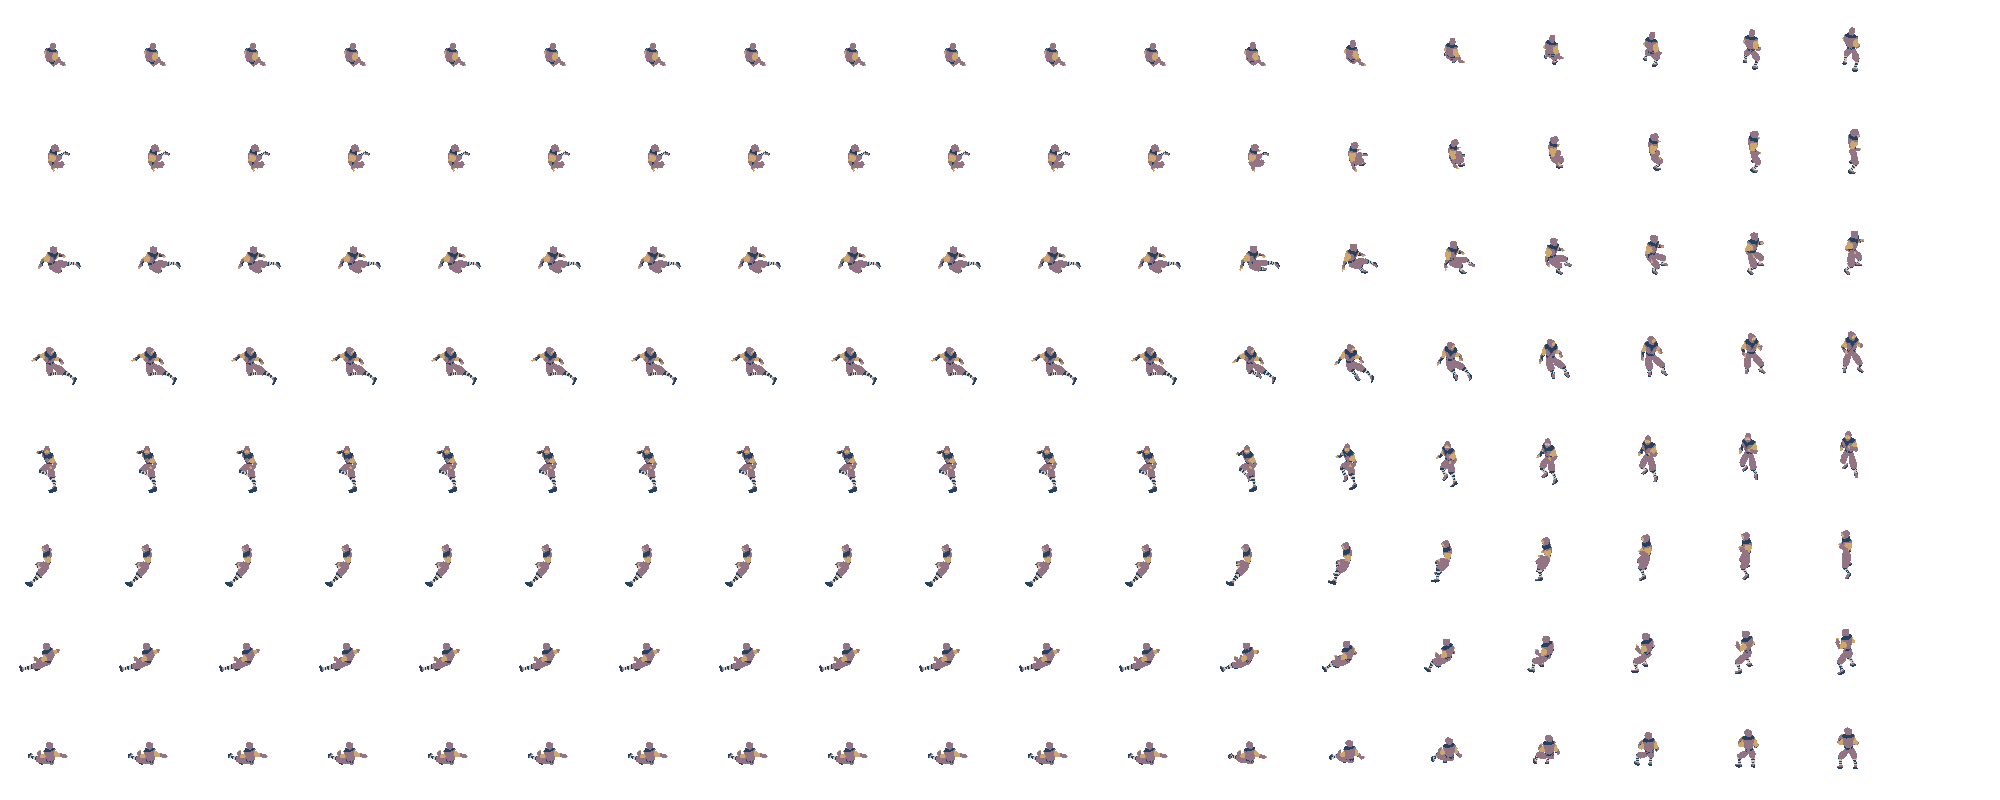
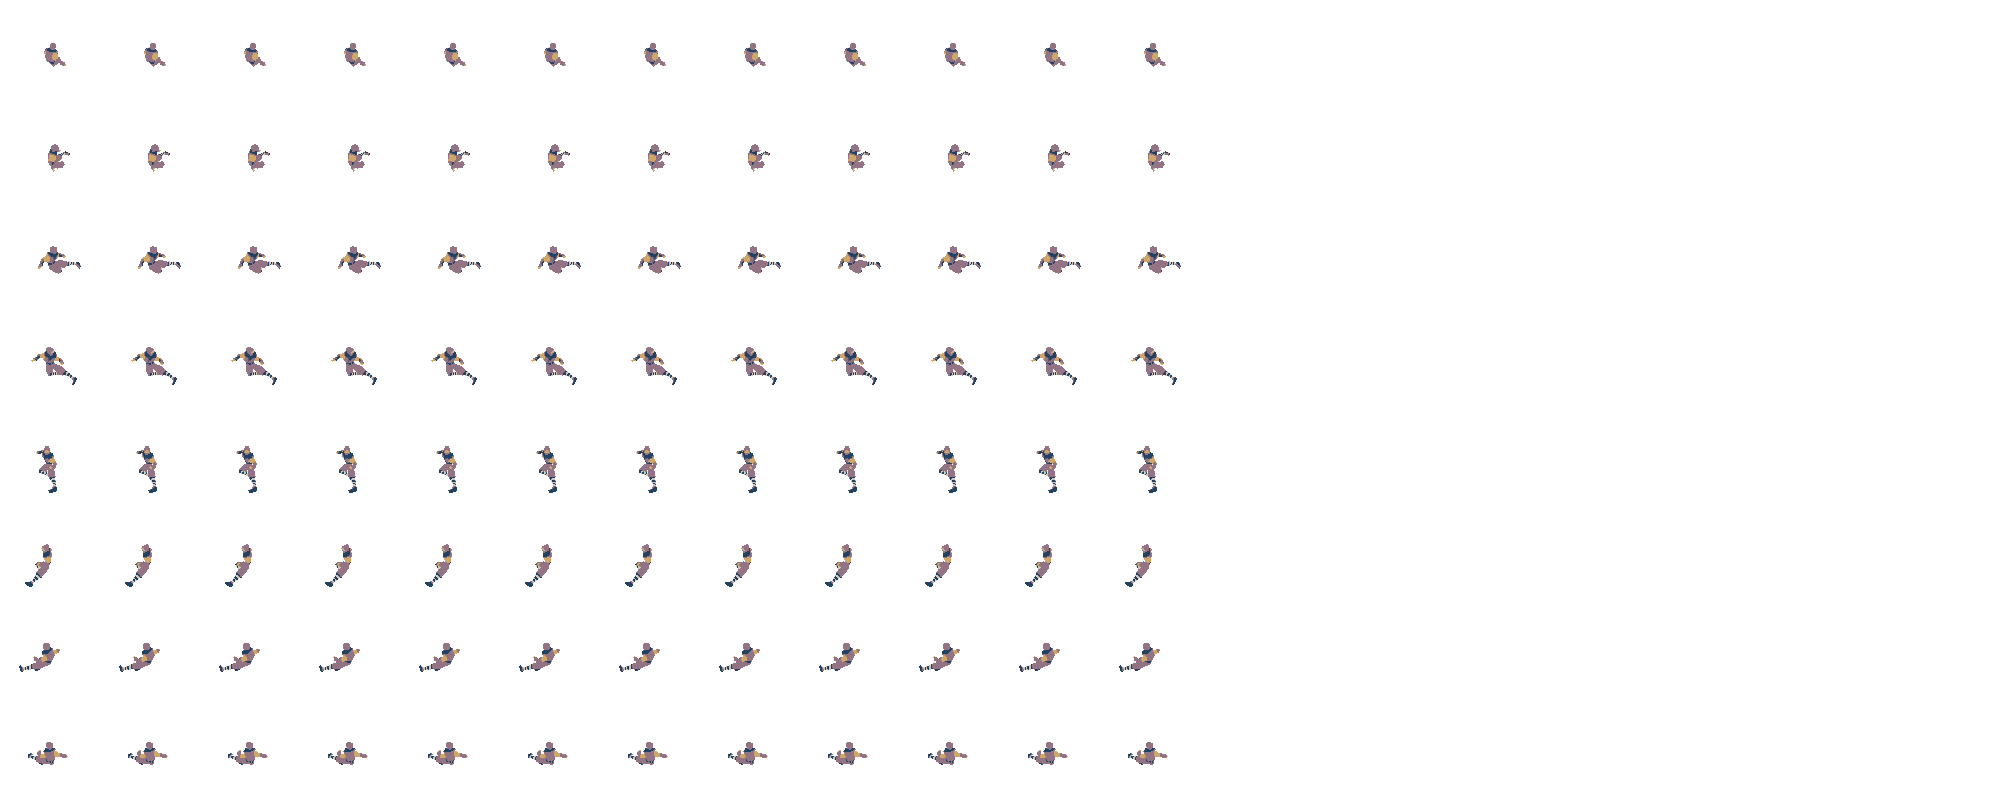
feat!: Replace `DudeState::Sliding` with `Attack::Slide`
The slide is now an attack, I decided this is a better way to handle
any state that has a hitbox (spawns an attack arc).

This may not be quite true for things that don't spawn an attack arc,
but then you can just spawn an invisible attack arc with just a hitbox,
so even then putting it into `Attack` is not a bad move.

It also works way better with `StaggerState` and other parts.

diff --git a/src/player/state/mod.rs b/src/player/state/mod.rs
@@ -7,7 +7,7 @@ pub use state_machine::PlayerStateMachine;
 use bevy::prelude::*;
 use bevy_trickfilm::prelude::*;
 
-use crate::dude::{AttackForm, DudeState, JumpingState, ParryState, Stagger};
+use crate::dude::{Attack, AttackForm, DudeState, JumpingState, ParryState, Stagger};
 use crate::player::{input::PlayerInput, Player};
 
 const SLIDING_TO_JUMP_TRANSITION_MAX_TIME_PERCENTAGE: f32 = 0.7;
@@ -93,6 +93,9 @@ fn transition_slide_state(
         if !player_input.slide {
             continue;
         }
+        if player.state_machine.attack_eq(Attack::Slide) {
+            continue;
+        }
         let x = animator.elapsed() / animator.duration().unwrap_or(1000.0);
         if !(player.state_machine.can_attack()
             || (player.state_machine.state() == DudeState::Jumping(JumpingState::Start)
@@ -101,7 +104,7 @@ fn transition_slide_state(
             continue;
         }
 
-        player.state_machine.set_state(DudeState::Sliding);
+        player.state_machine.set_sliding_attack();
     }
 }
 
@@ -118,7 +121,7 @@ fn transition_jump_state(
         }
         let x = animator.elapsed() / animator.duration().unwrap_or(1000.0);
         if !(player.state_machine.can_run()
-            || (player.state_machine.state() == DudeState::Sliding
+            || (player.state_machine.attack_eq(Attack::Slide)
                 && x <= SLIDING_TO_JUMP_TRANSITION_MAX_TIME_PERCENTAGE))
         {
             continue;
@@ -210,11 +213,6 @@ fn transition_idle_state(
                     ParryState::Recover | ParryState::Fail => {
                         player.state_machine.set_state(DudeState::Idling)
                     }
-                }
-            }
-            DudeState::Sliding => {
-                if animator.just_finished() {
-                    player.state_machine.set_state(DudeState::Idling);
                 }
             }
             DudeState::Jumping(jumping_state) => {

diff --git a/src/dude/animations.rs b/src/dude/animations.rs
@@ -31,6 +31,7 @@ pub enum DudeAnimations {
     ParrySuccess,
     ParrySuccessRecover,
     Slide,
+    SlideRecover,
     Jumping,
     JumpingRecoverIdle,
     JumpingRecoverMoving,
@@ -118,6 +119,7 @@ pub fn dude_state_animation(
                 Attack::Heavy1 => DudeAnimations::Heavy1,
                 Attack::Heavy2 => DudeAnimations::Heavy2,
                 Attack::Heavy3 => DudeAnimations::Heavy3,
+                Attack::Slide => DudeAnimations::Slide,
             };
             get_animation_data(assets, dude_animation, direction, false)
         }
@@ -129,6 +131,7 @@ pub fn dude_state_animation(
                 Attack::Heavy1 => DudeAnimations::Heavy1Recover,
                 Attack::Heavy2 => DudeAnimations::Heavy2Recover,
                 Attack::Heavy3 => DudeAnimations::Heavy3Recover,
+                Attack::Slide => DudeAnimations::SlideRecover,
             };
             get_animation_data(assets, dude_animation, direction, false)
         }
@@ -148,7 +151,6 @@ pub fn dude_state_animation(
             };
             get_animation_data(assets, dude_animation, direction, false)
         }
-        DudeState::Sliding => get_animation_data(assets, DudeAnimations::Slide, direction, false),
         DudeState::Jumping(jumping_state) => match jumping_state {
             JumpingState::Start => {
                 get_animation_data(assets, DudeAnimations::Jumping, direction, false)

diff --git a/src/dude/attack.rs b/src/dude/attack.rs
@@ -13,6 +13,7 @@ pub enum Attack {
     Heavy1,
     Heavy2,
     Heavy3,
+    Slide,
 }
 
 #[derive(Debug, Default, PartialEq, Clone, Copy)]
@@ -37,9 +38,12 @@ impl Attack {
             Attack::Heavy1 => (Vec2::default(), Collider::cuboid(8.0, 14.0), 20.0),
             Attack::Heavy2 => (Vec2::default(), Collider::cuboid(8.0, 14.0), 20.0),
             Attack::Heavy3 => (Vec2::default(), Collider::cuboid(12.0, 20.0), 20.0),
+            Attack::Slide => (Vec2::default(), Collider::cuboid(15.0, 8.0), 20.0),
         }
     }
 
+    /// The bool flag is whether or not to rotate the arc attack effect locally, meaning on its z
+    /// axis. It will always be rotated around the player regarding the orientation of the player.
     pub fn effect_animation_data(
         &self,
         assets: &Res<GameAssets>,
@@ -84,6 +88,13 @@ impl Attack {
                 assets.attack_half_circle.clone(),
                 assets.attack_half_circle_layout.clone(),
                 assets.attack_half_circle_animation.clone(),
+                true,
+            ),
+            // TODO: Slide effect animations
+            Attack::Slide => (
+                assets.attack_arc.clone(),
+                assets.attack_arc_layout.clone(),
+                assets.attack_arc_animation.clone(),
                 true,
             ),
         }

diff --git a/src/assets/mod.rs b/src/assets/mod.rs
@@ -68,6 +68,7 @@ pub struct GameAssets {
             "dude/dude_parry_success.png",
             "dude/dude_parry_success_recover.png",
             "dude/dude_slide.png",
+            "dude/dude_slide_recover.png",
             "dude/dude_jump.png",
             "dude/dude_jump_recover_idle.png",
             "dude/dude_jump_recover_moving.png",
@@ -250,6 +251,14 @@ pub struct GameAssets {
             "dude/dude.trickfilm.ron#slide-o5",
             "dude/dude.trickfilm.ron#slide-o6",
             "dude/dude.trickfilm.ron#slide-o7",
+            "dude/dude.trickfilm.ron#slide_recover-o0",
+            "dude/dude.trickfilm.ron#slide_recover-o1",
+            "dude/dude.trickfilm.ron#slide_recover-o2",
+            "dude/dude.trickfilm.ron#slide_recover-o3",
+            "dude/dude.trickfilm.ron#slide_recover-o4",
+            "dude/dude.trickfilm.ron#slide_recover-o5",
+            "dude/dude.trickfilm.ron#slide_recover-o6",
+            "dude/dude.trickfilm.ron#slide_recover-o7",
             "dude/dude.trickfilm.ron#jump-o0",
             "dude/dude.trickfilm.ron#jump-o1",
             "dude/dude.trickfilm.ron#jump-o2",

diff --git a/src/player/state/state_machine.rs b/src/player/state/state_machine.rs
@@ -121,6 +121,17 @@ Attempted new state: {:?}",
         self.attack_handler.set_chainable(true);
     }
 
+    pub fn set_sliding_attack(&mut self) {
+        if self.just_changed {
+            error!("Trying to set sliding state even though state was already changed this frame. Should never happen, you probably forgot a flag check");
+            return;
+        }
+        self.set_state(DudeState::Attacking);
+        self.attack_handler.set_attack(Attack::Slide);
+        self.attack_handler.set_chainable(false);
+        self.attack_handler.set_chained_attack(AttackForm::None);
+    }
+
     pub fn attack_direction(&self) -> Vec2 {
         self.attack_handler.attack_direction()
     }
@@ -189,6 +200,7 @@ Attempted new state: {:?}",
                 AttackForm::Heavy => Some(Attack::Heavy3),
             },
             Attack::Heavy3 => None,
+            Attack::Slide => None,
         }
     }
 

diff --git a/src/enemy/state/mod.rs b/src/enemy/state/mod.rs
@@ -91,10 +91,7 @@ fn transition_idle_state(mut q_enemies: Query<(&AnimationPlayer2D, &mut Enemy, &
         }
 
         match enemy.state_machine.state() {
-            DudeState::Idling
-            | DudeState::Parrying
-            | DudeState::Sliding
-            | DudeState::Jumping(_) => {}
+            DudeState::Idling | DudeState::Parrying | DudeState::Jumping(_) => {}
             DudeState::Running => {
                 if enemy.target.is_none() {
                     enemy.state_machine.set_state(DudeState::Idling);

diff --git a/src/player/movement.rs b/src/player/movement.rs
@@ -39,7 +39,7 @@ fn move_player_attacking(
             velocity.linvel = player.current_direction * 50.0;
         } else if player.state_machine.attack_eq(Attack::Light2) {
             velocity.linvel = player.current_direction * 250.0;
-        } else if player.state_machine.state() == DudeState::Sliding {
+        } else if player.state_machine.attack_eq(Attack::Slide) {
             let Some(duration) = animator.duration() else {
                 continue;
             };

diff --git a/src/dude/stagger.rs b/src/dude/stagger.rs
@@ -89,6 +89,10 @@ impl Stagger {
                     700.0 * intensity_multiplier,
                 );
             }
+            // TODO: Implement StaggerState with something like fallen
+            Attack::Slide => {
+                self.new_state(StaggerState::Normal, direction, 0.5, 0.0);
+            }
         }
     }
 

diff --git a/src/dude/mod.rs b/src/dude/mod.rs
@@ -25,7 +25,6 @@ pub enum DudeState {
     Recovering,
     Staggering,
     Parrying,
-    Sliding,
     Jumping(JumpingState),
 }
 
